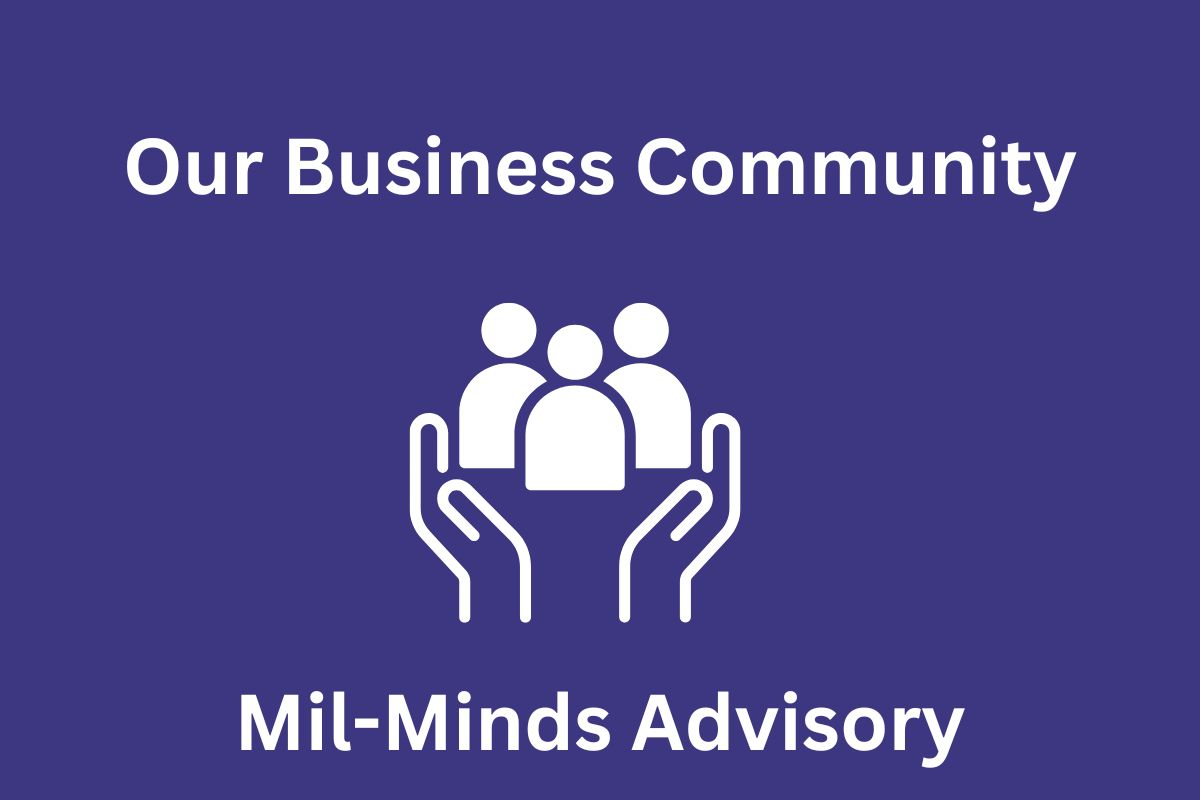
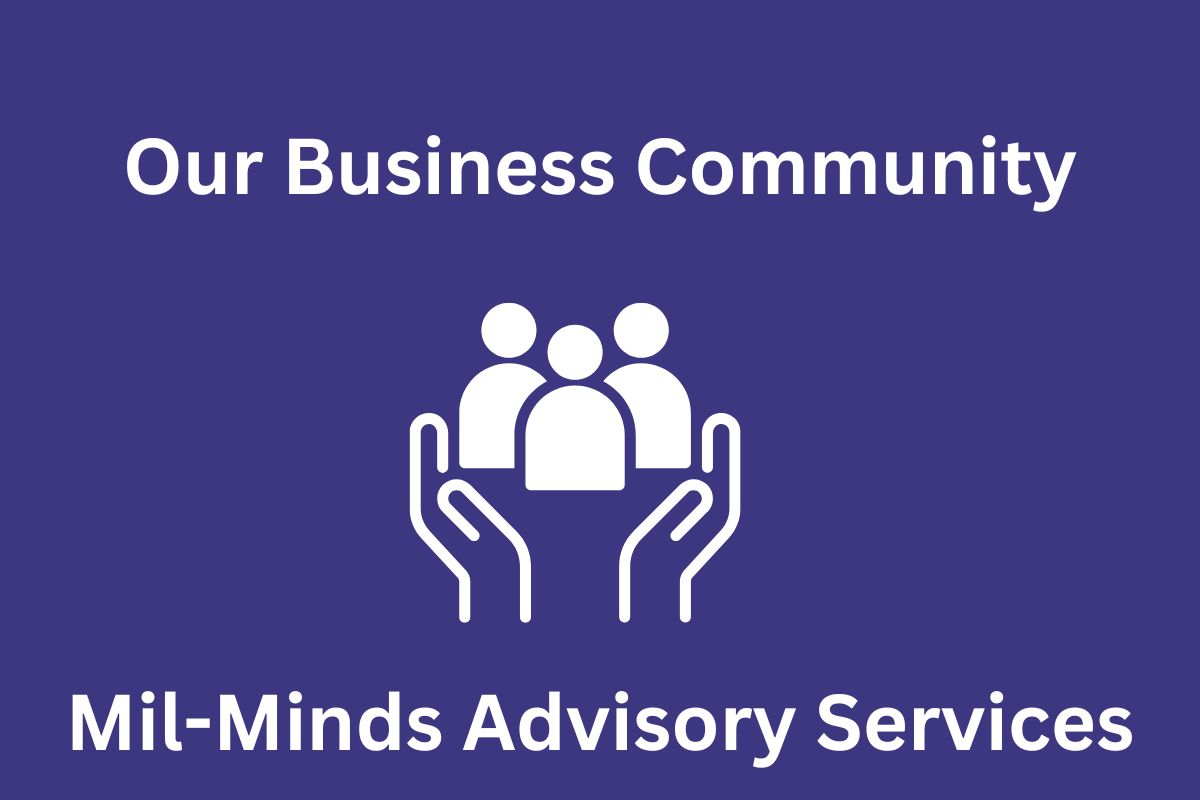
Brand naming corrections

Changed region(s): [[0.0617, 0.8438, 0.9558, 0.9688]]

diff --git a/resources/views/cleaning_bees.blade.php b/resources/views/cleaning_bees.blade.php
@@ -1,6 +1,6 @@
 @extends('layouts.cleaning_bees')
 
-@section('title', 'Cleaning Bees')
+@section('title', 'Cleaning Bees Cleaning Services')
 
 @section('content')
     <!-- Hero banner -->
@@ -120,7 +120,7 @@
                 <div class="col-lg-8">
                     <div class="pr-lg-5 mb-5 mb-lg-0">
 
-                        <h5 class="font-weight-400">Cleaning Bees Services</h5>
+                        <h5 class="font-weight-400">Cleaning Bees Cleaning Services</h5>
 
                         <div data-height="3px"></div>
 
@@ -129,7 +129,7 @@
                             <div class="title-divider-round"></div>
                         </h2>
                         <div class="lead-sm pt-2 mb-5">
-                            Guardians of cleanliness, Cleaning Bees takes pride as a vibrant subsidiary of Mil-Minds
+                            Guardians of cleanliness, Cleaning Bees Cleaning Services takes pride as a vibrant subsidiary of Mil-Minds
                             Holdings, committed to delivering exceptional cleaning services throughout Zimbabwe. We are
                             the architects of pristine environments, catering to the dynamic needs of commercial
                             establishments as well as the tranquility of residential homes.
@@ -247,7 +247,7 @@
                 <div class="col-lg-8 offset-lg-2">
                     <div class="text-center">
 
-                        <h3 style="color: #154070" class="font-weight-400">Cleaning Bees</h3>
+                        <h3 style="color: #154070" class="font-weight-400">Cleaning Bees Cleaning Services</h3>
 
                         <div data-height="3px"></div>
 
@@ -843,7 +843,7 @@
                 <div class="col-lg-8 offset-lg-2">
                     <div class="text-center">
 
-                        <h5 style="color: #154070;" class="font-weight-400 {{--text-white-75--}}">Cleaning Bees</h5>
+                        <h5 style="color: #154070;" class="font-weight-400 {{--text-white-75--}}">Cleaning Bees Cleaning Services</h5>
 
                         <div data-height="3px"></div>
 
@@ -854,7 +854,7 @@
 
                         <p style="color: #154070;font-size: 18px;background-color: #ffdc1d;">
                             With a team that is both professional and technically skilled, we pledge to enhance the
-                            hygiene and comfort of our clients' environments. At Cleaning Bees, excellence isn't
+                            hygiene and comfort of our clients' environments. At Cleaning Bees Cleaning Services, excellence isn't
                             just an aspiration; it's a standard we live by every day.
                         </p>
 
@@ -865,7 +865,7 @@
 
                         <p style="color: #154070;font-size: 18px;background-color: #ffdc1d;">
                             Get acquainted with our passionate leaders, Tariro Samantha Guma and Marshall Tinashe
-                            Guma, who guide Cleaning Bees with their extensive expertise and commitment to ethical
+                            Guma, who guide Cleaning Bees Cleaning Services with their extensive expertise and commitment to ethical
                             standards in the industry.
                         </p>
 
@@ -896,7 +896,7 @@
                                     <div class="pb-2 pb-md-4">
                                         <p>
                                             Are you ready to elevate your standard of cleanliness? Reach out to us,
-                                            and let Cleaning Bees orchestrate the perfect ambiance of purity and
+                                            and let Cleaning Bees Cleanign Services orchestrate the perfect ambiance of purity and
                                             comfort for you.
                                         </p>
                                     </div>
@@ -913,7 +913,7 @@
                                     <div class="pb-2 pb-md-4">
                                         <p>
                                             Embark on a journey to a cleaner, more serene tomorrow. Reserve your
-                                            service with Cleaning Bees today and embrace a lifestyle where
+                                            service with Cleaning Bees Cleaning Service today and embrace a lifestyle where
                                             cleanliness harmonizes with ease and comfort.
                                         </p>
                                     </div>

diff --git a/resources/views/layouts/website_footer.blade.php b/resources/views/layouts/website_footer.blade.php
@@ -14,7 +14,7 @@
                         <div data-height="5px"></div>
 
                         <p>
-                            Milminds Holdings emerges as a paragon of corporate synergy, an umbrella for distinct brands
+                            Mil-Minds Holdings emerges as a paragon of corporate synergy, an umbrella for distinct brands
                             that together, form a tapestry of excellence and innovation. Our collective prowess spans
                             from strategic business advisory to lifestyle and travel management, all while championing
                             the principles of integrity and inclusive growth.
@@ -58,22 +58,22 @@
 
                             <ul class="custom-list fa-ul mb-0 ml-4">
                                 <li><span class="fa-li"><i class="fas fa-angle-right text-primary"></i></span>
-                                    <a href="{{ route('home') }}" class="text-white-50 text-hover-primary">Milminds Holdings</a>
+                                    <a href="{{ route('home') }}" class="text-white-50 text-hover-primary">Mil-Minds Holdings</a>
                                 </li>
                                 <li><span class="fa-li"><i class="fas fa-angle-right text-primary"></i></span>
-                                    <a href="{{ route('advisory') }}" class="text-white-50 text-hover-primary">Milminds Advisory</a>
+                                    <a href="{{ route('advisory') }}" class="text-white-50 text-hover-primary">Mil-Minds Advisory Services</a>
                                 </li>
                                 <li><span class="fa-li"><i class="fas fa-angle-right text-primary"></i></span>
-                                    <a href="{{ route('cleaning-bees') }}" class="text-white-50 text-hover-primary">Cleaning Bees</a>
+                                    <a href="{{ route('cleaning-bees') }}" class="text-white-50 text-hover-primary">Cleaning Bees Cleaning Services</a>
                                 </li>
                                 <li><span class="fa-li"><i class="fas fa-angle-right text-primary"></i></span>
                                     <a href="{{ route('colorful-expressions') }}" class="text-white-50 text-hover-primary">Colorful Expressions</a>
                                 </li>
                                 <li><span class="fa-li"><i class="fas fa-angle-right text-primary"></i></span>
-                                    <a href="{{ route('fly-express') }}" class="text-white-50 text-hover-primary">Fly Express</a>
+                                    <a href="{{ route('fly-express') }}" class="text-white-50 text-hover-primary">Fly Express Courier Services</a>
                                 </li>
                                 <li><span class="fa-li"><i class="fas fa-angle-right text-primary"></i></span>
-                                    <a href="{{ route('way-maker') }}" class="text-white-50 text-hover-primary">Waymaker</a>
+                                    <a href="{{ route('way-maker') }}" class="text-white-50 text-hover-primary">Way-maker Travel & Tour </a>
                                 </li>
                                 <li><span class="fa-li"><i class="fas fa-angle-right text-primary"></i></span>
                                     <a href="{{ route('home') }}" class="text-white-50 text-hover-primary">Contact Us</a>
@@ -170,7 +170,7 @@
             <div class="row py-3">
 
                 <div class="col-lg-6 text-center text-lg-left mb-2 mb-lg-0">
-                    <large>Copyright @ {{date('Y')}} Milminds Holdings - <a href="https://leadingdigital.africa">Developed
+                    <large>Copyright @ {{date('Y')}} Mil-Minds Holdings - <a href="https://leadingdigital.africa">Developed
                             By Leading Digital.</a></large>
                 </div>
 

diff --git a/resources/views/advisory.blade.php b/resources/views/advisory.blade.php
@@ -65,7 +65,7 @@
 
             <div class="container pt-5">
                 <div class="py-5 my-4">
-                    <h2 class="text-center display-4 font-weight-800 text-black mb-4">Mil-Minds Advisory</h2>
+                    <h2 class="text-center display-4 font-weight-800 text-black mb-4">Mil-Minds Advisory Services</h2>
 
                     <div data-height="10px"></div>
 
@@ -142,7 +142,7 @@
                     <div class="col-lg-12">
                         <div class="py-3 pr-lg-4 mb-5 mb-lg-0">
 
-                            <h2 class="display-4 font-weight-300 text-primary mb-1">Mil-Minds Advisory</h2>
+                            <h2 class="display-4 font-weight-300 text-primary mb-1">Mil-Minds Advisory Services</h2>
 
                             <h2 class="display-4 font-weight-800 text-white mb-4">Who We Are?</h2>
 
@@ -431,17 +431,17 @@
         <div class="container-fluid p-0">
             <div class="row no-gutters">
 
-                <div class="col-lg-6 bg-image" data-img-src="{{asset('/images/BusinessCommunity.jpg')}}">
-                    <div class="d-lg-none" data-height="70vw"></div>
+                <div class="col-lg-7 bg-image" data-img-src="{{asset('/images/BusinessCommunity.jpg')}}">
+                    <div class="d-lg-none" data-height="60vw"></div>
                 </div>
 
-                <div class="col-lg-6 bg-light p-4 p-md-5">
+                <div class="col-lg-5 bg-light p-4 p-md-5">
                     <div class="row no-gutters">
                         <div class="col-md-8 offset-md-2 col-lg-12 offset-lg-0 col-xl-8 offset-xl-2 text-center">
 
                             <div data-height="100px"></div>
 
-                            <h5 class="font-weight-400">Mil-Minds Advisory</h5>
+                            <h5 class="font-weight-400">Mil-Minds Advisory Services</h5>
 
                             <div data-height="3px"></div>
 

diff --git a/resources/views/fly_express.blade.php b/resources/views/fly_express.blade.php
@@ -1,6 +1,6 @@
 @extends('layouts.fly_express')
 
-@section('title', 'Fly Express')
+@section('title', 'Fly Express Courier Services')
 
 @section('content')
     <!-- Hero banner -->
@@ -19,7 +19,7 @@
                                     <h2 class="h5 font-weight-700 text-warning letter-spacing-sm mb-lg-0 add-animate"
                                         data-animated="bounceInLeft">Elevating Courier Services</h2>
                                     <h1 class="display-2 font-weight-800 text-white add-animate"
-                                        data-animated="bounceInRight">Fly Express</h1>
+                                        data-animated="bounceInRight">Fly Express Courier Services</h1>
                                     <div class="lead-sm font-weight-500 text-white pb-2 mb-5 add-animate"
                                          data-animated="bounceInLeft">
                                         Your Swift, Safe, and Reliable Courier Partner!
@@ -70,7 +70,7 @@
                                     <div class="pr-md-4 pl-md-0 pr-xl-5 order-md-1">
                                         <h3 class="font-weight-700 text-white mb-3 mb-md-1">Beyond Boundaries, <span
                                                 class="text-warning">Beyond Speed</span></h3>
-                                        <p class="mb-md-0">Fly Express, Flying without Wings.</p>
+                                        <p class="mb-md-0">Fly Express Courier Services, Flying without Wings.</p>
                                     </div>
                                 </div>
 

diff --git a/resources/views/index.blade.php b/resources/views/index.blade.php
@@ -123,11 +123,11 @@
                                             </div>
                                             <select class="custom-select custom-select-lg">
                                                 <option selected>Select Brand</option>
-                                                <option value="Mil-mind advisory">Mil-mind advisory</option>
-                                                <option value="Cleaning Bees">Cleaning Bees</option>
+                                                <option value="Mil-mind advisory">Mil-Mind Advisory Services</option>
+                                                <option value="Cleaning Bees">Cleaning Bees Cleaning Services</option>
                                                 <option value="Colorful Expression">Colorful Expression</option>
-                                                <option value="Fly-Express">Fly-Express</option>
-                                                <option value="Waymaker">Waymaker</option>
+                                                <option value="Fly-Express">Fly-Express Courier Services</option>
+                                                <option value="Waymaker">Way-maker Travel & Tour </option>
                                             </select>
                                             <div class="input-focus-bg"></div>
                                         </div>

diff --git a/resources/views/layouts/website_nav.blade.php b/resources/views/layouts/website_nav.blade.php
@@ -1,12 +1,12 @@
 <ul class="navbar-nav {{--ml-auto--}}">
     <li class="nav-item {{ Request::routeIs('home') ? 'active' : '' }}">
-        <a class="nav-link" href="{{ route('home') }}">Holdings</a>
+        <a class="nav-link" href="{{ route('home') }}">Mil-Minds Holdings</a>
     </li>
     <li class="nav-item {{ Request::routeIs('advisory') ? 'active' : '' }}">
-        <a class="nav-link" href="{{ route('advisory') }}">Mil-Minds Advisory</a>
+        <a class="nav-link" href="{{ route('advisory') }}">Mil-Minds Advisory Services</a>
     </li>
     <li class="nav-item {{ Request::routeIs('cleaning-bees') ? 'active' : '' }}">
-        <a class="nav-link" href="{{ route('cleaning-bees') }}">Cleaning Bees</a>
+        <a class="nav-link" href="{{ route('cleaning-bees') }}">Cleaning Bees Cleaning Services</a>
     </li>
 
     <li class="nav-item {{ Request::routeIs('colorful-expressions') ? 'active' : '' }}">
@@ -16,7 +16,7 @@
     </li>
 
     <li class="nav-item {{ Request::routeIs('fly-express') ? 'active' : '' }}">
-        <a class="nav-link" href="{{ route('fly-express') }}">Fly Express</a>
+        <a class="nav-link" href="{{ route('fly-express') }}">Fly Express Courier Services</a>
     </li>
 
     <li class="nav-item {{ Request::routeIs('way-maker') ? 'active' : '' }}">

diff --git a/resources/views/layouts/cleaning_bees.blade.php b/resources/views/layouts/cleaning_bees.blade.php
@@ -113,7 +113,7 @@
             <!-- ... -->
             <ul class="navbar-nav {{--ml-auto--}}">
                 <li class="nav-item">
-                    <a style="color: #ffdc1d;" class="nav-link" href="{{ url('/advisory') }}">Cleaning Bees</a>
+                    <a style="color: #ffdc1d;" class="nav-link" href="{{ url('/advisory') }}">Cleaning Bees Cleaning Services</a>
                 </li>
                 <li class="nav-item">
                     <a style="color: #ffdc1d;" class="nav-link" href="{{ url('#about') }}">About Us</a>

diff --git a/resources/views/layouts/fly_express.blade.php b/resources/views/layouts/fly_express.blade.php
@@ -113,7 +113,7 @@
             <!-- ... -->
             <ul class="navbar-nav {{--ml-auto--}}">
                 <li class="nav-item">
-                    <a style="color: white;" class="nav-link" href="{{ url('/fly-express') }}">Fly Express</a>
+                    <a style="color: white;" class="nav-link" href="{{ url('/fly-express') }}">Fly Express Courier Services</a>
                 </li>
                 <li class="nav-item">
                     <a style="color: white;" class="nav-link" href="{{ url('#about') }}">About Us</a>

diff --git a/resources/views/layouts/advisory.blade.php b/resources/views/layouts/advisory.blade.php
@@ -113,7 +113,7 @@
             <!-- ... -->
             <ul class="navbar-nav {{--ml-auto--}}">
                 <li class="nav-item">
-                    <a class="nav-link" href="{{ url('/advisory') }}">Mil-Minds Advisory</a>
+                    <a class="nav-link" href="{{ url('/advisory') }}">Mil-Minds Advisory Services</a>
                 </li>
                 <li class="nav-item">
                     <a class="nav-link" href="{{ url('#vision') }}">Our Vision</a>
